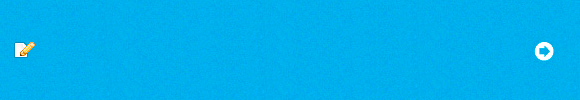
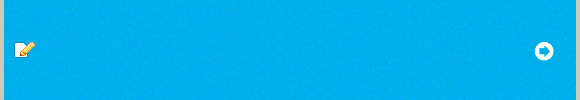
CSS Judo to prevent extraneous border from being applied to 'add page' button in the active state

Changed region(s): [[0.9931, 0.0, 1.0, 1.0], [0.0, 0.0, 0.031, 1.0]]

diff --git a/communityalmanac/public/css/style.css b/communityalmanac/public/css/style.css
@@ -1093,6 +1093,10 @@ position: relative;
 background: #d0c9b9; /* webkit broswers are getting input height wrong */
 }
 
+body.home #intro .map form#almanac-create-form {
+border-bottom: 4px solid #d0c9b9;
+}
+
 body.home #intro .map input {
 font-size: 1.4em;
 width: 80%;
@@ -1126,8 +1130,8 @@ body.home #intro .map input#almanac-submit {
 background: url(/img/home-add-page-bg.png) 0 50% repeat;
 width: 100%;
 color: #fff;
-border-width: 0 4px 4px;
-padding: 0.3em 30px;
+border-width: 0;
+padding: 0.3em 34px;
 text-align: left;
 cursor: pointer;
 }
